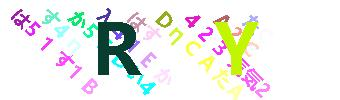
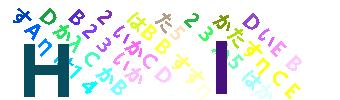
:sparkles:验证码位置随机

diff --git a/web-server/src/main/java/com/hlx/webserver/util/CaptchaUtil.java b/web-server/src/main/java/com/hlx/webserver/util/CaptchaUtil.java
@@ -15,18 +15,33 @@ public class CaptchaUtil {
     //噪声序列
     private static char[] noiseSeq = {'A','B','C','D','E', '1','2','3','4','5','ψ', 'η', 'λ',
             'た','ά','気','か','い','は','す'};
+
     //验证字符序列
     private static char[] targetSeq = { 'A', 'B', 'C', 'D', 'E', 'F', 'G', 'H', 'I', 'J',
             'K', 'L', 'M', 'N', 'P', 'Q', 'R', 'S', 'T', 'U', 'V', 'W',
             'X', 'Y', 'Z'};
 
+    //噪声字体
     private static Font noiseFont = new Font("微软雅黑", Font.BOLD, 20);
 
+    //验证字体
     private static Font targetFont = new Font("微软雅黑", Font.BOLD, 70);
+
+    //验证字符是否上下随机
+    public static boolean verticalRandom = true;
+
+    //验证字符是否左右随机(仍然保持生成的先后次序)
+    public static boolean horizontalRandom = true;
+
+    //默认验证字符垂直坐标序列
+    private static final int[] DEFAULT_Y_SEQ = {75, 75};
+
+    //默认验证字符水平坐标序列
+    private static final int[] DEFAULT_X_SEQ = {62, 232};
 
     //验证码生成
     public static Captcha newInstance() {
-        BufferedImage image = new BufferedImage(340,100,BufferedImage.TYPE_INT_BGR);
+        BufferedImage image = new BufferedImage(340, 100, BufferedImage.TYPE_INT_RGB);
         Random random = new Random();
         //获取画笔
         Graphics2D g = image.createGraphics();
@@ -40,12 +55,12 @@ public class CaptchaUtil {
         Color randomColor = new Color(
                 random.nextInt(255),random.nextInt(255),random.nextInt(255));
         g.setColor(randomColor);
-        int x = 18,y = 5,cnt = 0;
-        for(int i=0;i<54;i++) {
+        int x = 18, y = 5, cnt = 0;
+        for (int i = 0; i < 54; i++) {
             String randomStr = String.valueOf(
                     noiseSeq[random.nextInt(noiseSeq.length)]);
-            g.drawString(randomStr,x+20*cnt,y);
-            cnt ++;
+            g.drawString(randomStr, x + 20 * cnt, y);
+            cnt++;
             //颜色变亮
             randomColor = randomColor.brighter();
             g.setColor(randomColor);
@@ -54,7 +69,7 @@ public class CaptchaUtil {
                 y = y - 20;
                 cnt = 0;
                 randomColor = new Color(
-                        random.nextInt(255),random.nextInt(255),random.nextInt(255));
+                        random.nextInt(255), random.nextInt(255), random.nextInt(255));
                 g.setColor(randomColor);
             }
         }
@@ -63,17 +78,26 @@ public class CaptchaUtil {
         g.setFont(targetFont);
         g.rotate(Math.toRadians(-45));
         //随机X坐标
+        //单字符宽度45px,防止越界，第一个字符的起始坐标最多250px
         int randomX = random.nextInt(340 - 90);
         int randomX2 = randomX + 45 + random.nextInt(340 - randomX - 45 - 45);
         int[] randomXSeq = {randomX, randomX2};
-        for (int i=0;i<2;i++) {
+        for (int i = 0; i < 2; i++) {
             String randomStr = String.valueOf(
                     targetSeq[random.nextInt(targetSeq.length)]);
             builder.append(randomStr);
             randomColor = new Color(
-                    random.nextInt(255),random.nextInt(255),random.nextInt(255));
+                    random.nextInt(255), random.nextInt(255), random.nextInt(255));
             g.setColor(randomColor);
-            g.drawString(randomStr, randomXSeq[i], 75);
+            int targetY = DEFAULT_Y_SEQ[i];
+            if (verticalRandom) {
+                targetY = 55 + random.nextInt(45);
+            }
+            int targetX = DEFAULT_X_SEQ[i];
+            if (horizontalRandom) {
+                targetX = randomXSeq[i];
+            }
+            g.drawString(randomStr, targetX, targetY);
         }
         return new Captcha(image, builder.toString());
     }

diff --git a/web-server/src/test/java/com/hlx/webserver/CaptchaTests.java b/web-server/src/test/java/com/hlx/webserver/CaptchaTests.java
@@ -5,6 +5,8 @@ import com.hlx.webserver.util.CaptchaUtil;
 import org.junit.Test;
 
 import javax.imageio.ImageIO;
+import java.awt.*;
+import java.awt.image.BufferedImage;
 import java.io.File;
 import java.io.IOException;
 
@@ -14,8 +16,10 @@ import java.io.IOException;
  **/
 public class CaptchaTests {
 
+    //垂直随机测试(打开垂直随机)
     @Test
-    public void buildImage() {
+    public void verticalRandomTest() {
+        CaptchaUtil.verticalRandom = true;
         Captcha captcha = CaptchaUtil.newInstance();
         System.out.println("result->>" + captcha.getResult());
         File out = new File("captcha.jpg");
@@ -25,4 +29,64 @@ public class CaptchaTests {
             e.printStackTrace();
         }
     }
+
+    //垂直随机测试2(关闭垂直随机)
+    @Test
+    public void verticalRandomTest2() {
+        CaptchaUtil.verticalRandom = false;
+        Captcha captcha = CaptchaUtil.newInstance();
+        System.out.println("result->>" + captcha.getResult());
+        File out = new File("captcha.jpg");
+        try {
+            ImageIO.write(captcha.getBufferedImage(), "jpg", out);
+        } catch (IOException e) {
+            e.printStackTrace();
+        }
+    }
+
+    //水平随机测试(打开水平随机)
+    @Test
+    public void horizontalRandomTest() {
+        CaptchaUtil.horizontalRandom = true;
+        Captcha captcha = CaptchaUtil.newInstance();
+        System.out.println("result->>" + captcha.getResult());
+        File out = new File("captcha.jpg");
+        try {
+            ImageIO.write(captcha.getBufferedImage(), "jpg", out);
+        } catch (IOException e) {
+            e.printStackTrace();
+        }
+    }
+
+    //水平随机测试2(水平垂直随机)
+    @Test
+    public void horizontalRandomTest2() {
+        CaptchaUtil.horizontalRandom = false;
+        Captcha captcha = CaptchaUtil.newInstance();
+        System.out.println("result->>" + captcha.getResult());
+        File out = new File("captcha.jpg");
+        try {
+            ImageIO.write(captcha.getBufferedImage(), "jpg", out);
+        } catch (IOException e) {
+            e.printStackTrace();
+        }
+    }
+
+    //黑白测试
+    @Test
+    public void blackWhiteTest() {
+        Captcha captcha = CaptchaUtil.newInstance();
+        System.out.println("result->>" + captcha.getResult());
+        BufferedImage sourceImage = captcha.getBufferedImage();
+        BufferedImage blackWhiteImage = new BufferedImage(340, 100, BufferedImage.TYPE_BYTE_GRAY);
+        Graphics g = blackWhiteImage.getGraphics();
+        g.drawImage(sourceImage, 0, 0, null);
+        File out = new File("blackWhiteCaptcha.jpg");
+        try {
+            ImageIO.write(blackWhiteImage, "jpg", out);
+        } catch (IOException e) {
+            e.printStackTrace();
+        }
+    }
+
 }
